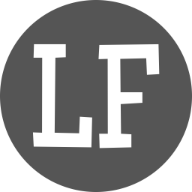
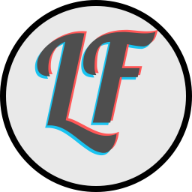
feat: new design

diff --git a/index.html b/index.html
@@ -23,20 +23,14 @@
 
 </head>
 
-<body class="bg-gray-dark">
+<body>
     <!-- Navigation -->
-    <nav id="navbar-main" class="navbar navbar-main navbar-expand navbar-theme-light navbar-light headroom">
+    <nav id="navbar-main" class="navbar navbar-main navbar-expand navbar-frank headroom">
         <div class="container">
-            <a class="navbar-brand navbar-brand-dark text-black mr-lg-5" href="#">
-                LEONARDIFRANCO
+            <a class="navbar-brand mr-lg-5" href="#">
+                <img src="img/logo.png" alt="LeonardiFranco">
             </a>
-            <a class="navbar-brand navbar-brand-light text-white mr-lg-5" href="#">
-                LEONARDIFRANCO
-            </a>
-            <a href="https://www.instagram.com/leonardifranco" class="navbar-brand navbar-brand-dark text-black">
-                <span class="fab fa-instagram"></span>
-            </a>
-            <a href="https://www.instagram.com/leonardifranco" class="navbar-brand navbar-brand-light text-white">
+            <a href="https://www.instagram.com/leonardifranco" class="navbar-brand text-white">
                 <span class="fab fa-instagram"></span>
             </a>
         </div>
@@ -44,27 +38,33 @@
 
     <!-- Page Content -->
     <section>
-        <div class="container pt-5 mt-5">
+        <div class="px-5 pt-5 mt-5">
             <div class="row">
-                <div class="col-md-6">
-                    <div class="row text-center">
+                <div class="col-lg-8">
+                    <div class="row text-center order-1">
                         <div class="col-12">
-                            <h1 class="display-xs-2 text-gray-700 mb-0 bg-neutral border-light shadow-pixel">DJ Franco Leonardi
-                            </h1>
-                            <p class="text-neutral">Pongo musica los sabados a la noche</p>
+                            <div class="hero-title text-left">LeonardiFranco</div>
                         </div>
-                        <div class="col-12 mt-5 mb-5">
-                            <div class="blog-card">
-                                <div class="card shadow-pixel border-0">
-                                    <img src="img/card-photo.jpg" class="card-img-top" alt="Dj @ Disfrazate 2019">
-                                    <div class="card-body">
-                                        <div id="radio-player" hidden>
-                                            <audio class="audio" controls="controls" autoplay onerror="radioError()" ondurationchange="radioSuccess()">
+                        <div class="col-12 order-lg-3 text-left">
+                            <div class="hero-subtitle-1">le pongo onda a</div>
+                            <div class="hero-subtitle-2">la noche del sabado</div>
+                        </div>
+                        <div class="col-12 mt-3 mb-3 order-lg-2">
+                            <div class="row">
+                                <div class="blog-card col-lg-11">
+                                    <div class="card shadow-blue border-0">
+                                        <div>
+                                            <img src="img/card-photo.jpg" class="card-img-top frank-img-top" alt="Dj @ Disfrazate 2019">
+                                        </div>
+                                        <div class="card-body">
+                                            <div id="radio-player" hidden>
+                                                <audio class="audio" controls="controls" autoplay onerror="radioError()" ondurationchange="radioSuccess()">
                                                 <source type="audio/ogg"
                                                     src="https://radio.leonardifran.com/radio.ogg" />
                                                 <source type="audio/mpeg"
                                                     src="https://radio.leonardifran.com/radio.mp3" />
                                             </audio>
+                                            </div>
                                         </div>
                                     </div>
                                 </div>
@@ -72,15 +72,15 @@
                         </div>
                     </div>
                 </div>
-                <div class="col-md-6">
+                <div class="col-lg-4">
                     <div class="row">
                         <div class="col">
-                            <div class="blog-card card shadow-pixel border-0" style="height: 36.8rem;">
+                            <div class="blog-card card shadow-red border-0 mt-lg-4" style="height: 40rem;">
                                 <div class="card-header">
-                                    <h6>Chat Room</h6>
+                                    <span class="chat-title">CHAT ROOM</span>
                                 </div>
                                 <div class="card-body messages">
-                                    <div class="messages-content bg-gray-700 px-1" id="messages-content"></div>
+                                    <div class="messages-content px-1" id="messages-content"></div>
                                 </div>
                                 <form class="message-box card-footer" id="message-form">
                                     <input disabled type="text" class="message-input" id="message" autocomplete="off" placeholder="Inicia sesion para enviar mensajes"></input>

diff --git a/css/radio.css b/css/radio.css
@@ -1,10 +1,59 @@
-@import 'https://fonts.googleapis.com/css?family=Lato';
+@import 'https://fonts.googleapis.com/css?family=Lato&display=swap';
+@import 'https://fonts.googleapis.com/css2?family=Staatliches&display=swap';
+@import 'https://fonts.googleapis.com/css2?family=Galada&display=swap';
 * {
     outline: none;
 }
 
 
-/*👇 for preload play/pause svg 😎*/
+/* for preload play/pause svg */
+
+body {
+    background-color: #171717;
+}
+
+.chat-title {
+    font-family: Staatliches;
+    font-size: 1.5em;
+}
+
+.hero-title {
+    font-family: 'Galada';
+    color: #E9E9E9;
+    font-size: 9vw;
+}
+
+.hero-subtitle-1 {
+    font-family: Staatliches;
+    color: #E9E9E9;
+    font-size: 3vw;
+    line-height: 0px;
+}
+
+.hero-subtitle-2 {
+    font-family: Staatliches;
+    color: #E9E9E9;
+    font-size: 6vw;
+    margin-left: -2px;
+}
+
+.frank-img-top {
+    object-fit: cover;
+    object-position: 100% 30%;
+    height: 150px;
+}
+
+.shadow-red {
+    box-shadow: 0.2rem 0.2rem 0 #FF5757 !important;
+}
+
+.shadow-blue {
+    box-shadow: 0.2rem 0.2rem 0 #19C4F1 !important;
+}
+
+.navbar-frank {
+    background-color: #606060;
+}
 
 body:after {
     position: absolute;
@@ -17,22 +66,6 @@ body:after {
 
 .audio {
     width: 90%;
-}
-
-article {
-    position: absolute;
-    width: 50%;
-    height: 300px;
-    top: 40px;
-    left: 0;
-    bottom: 0;
-    right: 0;
-    margin: auto;
-    text-align: center;
-    padding: 50px 5%;
-    box-sizing: border-box;
-    box-shadow: 0 0 21px 0px rgba(0, 0, 0, 0.3);
-    border-radius: 10px;
 }
 
 .cont {
@@ -218,7 +251,7 @@ article {
     border-radius: 5px !important;
 }
 
-@-webkit-keyframes move {
+@keyframes move {
     0% {
         background-position: 0 0;
     }
@@ -227,84 +260,13 @@ article {
     }
 }
 
-
-/*--------------------
-Chat
---------------------*/
-
-.chat {
-    height: 47vh;
-    max-height: 500px;
-    z-index: 2;
-    overflow: hidden;
-    box-shadow: 0 5px 30px rgba(0, 0, 0, 0.2);
-    background: rgba(0, 0, 0, 0.5);
-    border-radius: 20px;
-    display: -webkit-box;
-    display: -webkit-flex;
-    display: -ms-flexbox;
-    display: flex;
-    -webkit-box-pack: justify;
-    -webkit-justify-content: space-between;
-    -ms-flex-pack: justify;
-    justify-content: space-between;
-    -webkit-box-orient: vertical;
-    -webkit-box-direction: normal;
-    -webkit-flex-direction: column;
-    -ms-flex-direction: column;
-    flex-direction: column;
-}
-
-
-/*--------------------
-  Chat Title
-  --------------------*/
-
-.chat-title {
-    -webkit-box-flex: 0;
-    -webkit-flex: 0 1 45px;
-    -ms-flex: 0 1 45px;
-    flex: 0 1 45px;
-    position: relative;
-    z-index: 2;
-    background: rgba(0, 0, 0, 0.2);
-    color: #fff;
-    text-transform: uppercase;
-    text-align: left;
-    padding: 10px 10px 10px 50px;
-}
-
-.chat-title h1,
-.chat-title h2 {
-    font-weight: normal;
-    font-size: 10px;
-    margin: 0;
-    padding: 0;
-}
-
-.chat-title h2 {
-    color: rgba(255, 255, 255, 0.5);
-    font-size: 8px;
-    letter-spacing: 1px;
-}
-
-.chat-title .avatar {
-    position: absolute;
-    z-index: 1;
-    top: 8px;
-    left: 9px;
-    border-radius: 30px;
-    width: 30px;
-    height: 30px;
-    overflow: hidden;
-    margin: 0;
-    padding: 0;
-    border: 2px solid rgba(255, 255, 255, 0.24);
-}
-
-.chat-title .avatar img {
-    width: 100%;
-    height: auto;
+@-webkit-keyframes move {
+    0% {
+        background-position: 0 0;
+    }
+    100% {
+        background-position: 50px 50px;
+    }
 }
 
 
@@ -330,6 +292,7 @@ Chat
     height: 100%;
     width: 100%;
     overflow-y: auto;
+    background-color: #606060;
 }
 
 .messages .message {

diff --git a/css/pixel.css b/css/pixel.css
@@ -15,8 +15,6 @@
 
 */
 
-@import url("https://fonts.googleapis.com/css?family=Nunito:300,400,500,600,700,800&display=swap");
-@import url("https://fonts.googleapis.com/css?family=Sanchez:400,400i&display=swap");
 
 /*
  * 	Default theme - Owl Carousel CSS File
@@ -105,7 +103,7 @@ section {
 
 body {
     margin: 0;
-    font-family: "Nunito", sans-serif;
+    font-family: "Lato", sans-serif;
     font-size: 1rem;
     font-weight: 300;
     line-height: 1.5;
@@ -8356,7 +8354,7 @@ a.close.disabled {
     z-index: 1070;
     display: block;
     margin: 0;
-    font-family: "Nunito", sans-serif;
+    font-family: "Lato", sans-serif;
     font-style: normal;
     font-weight: 400;
     line-height: 1.5;
@@ -8481,7 +8479,7 @@ a.close.disabled {
     z-index: 1060;
     display: block;
     max-width: 276px;
-    font-family: "Nunito", sans-serif;
+    font-family: "Lato", sans-serif;
     font-style: normal;
     font-weight: 400;
     line-height: 1.5;
@@ -29585,14 +29583,14 @@ h6,
 .h4,
 .h5,
 .h6 {
-    font-family: "Nunito", sans-serif;
+    font-family: "Lato", sans-serif;
     font-weight: 400;
 }
 
 p,
 ol li,
 ul li {
-    font-family: "Nunito", sans-serif;
+    font-family: "Lato", sans-serif;
     font-size: 1rem;
     font-weight: 300;
     line-height: 1.6;
